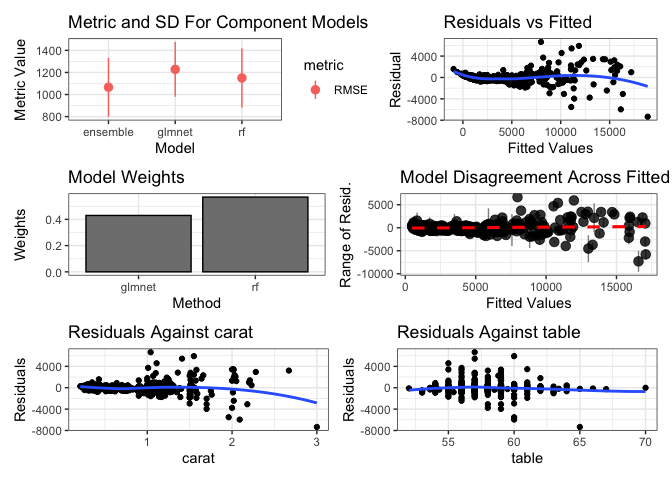
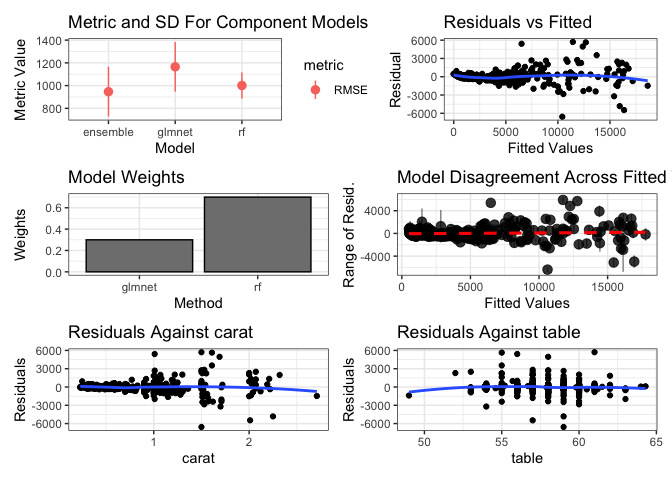
readme check

diff --git a/README.md b/README.md
@@ -51,21 +51,21 @@ print(greedy_stack)
 #> 
 #> No pre-processing
 #> Resampling: Cross-Validated (5 fold) 
-#> Summary of sample sizes: 400, 400, 400, 400, 400 
+#> Summary of sample sizes: 400, 400, 400, 401, 399 
 #> Resampling results:
 #> 
 #>   RMSE      Rsquared   MAE     
-#>   1065.887  0.9284382  592.5321
+#>   946.5929  0.9468516  506.8786
 #> 
 #> Tuning parameter 'max_iter' was held constant at a value of 100
 #> 
 #> Final model:
 #> Greedy MSE
-#> RMSE:  1076.431 
+#> RMSE:  963.298 
 #> Weights:
 #>        [,1]
-#> rf     0.57
-#> glmnet 0.43
+#> rf      0.7
+#> glmnet  0.3
 ggplot2::autoplot(greedy_stack, training_data = dat, xvars = c("carat", "table"))
 ```
 
@@ -84,11 +84,11 @@ print(rf_stack)
 #> 
 #> No pre-processing
 #> Resampling: Cross-Validated (5 fold) 
-#> Summary of sample sizes: 400, 400, 400, 400, 400 
+#> Summary of sample sizes: 400, 401, 400, 400, 399 
 #> Resampling results:
 #> 
 #>   RMSE      Rsquared   MAE     
-#>   1043.646  0.9306849  507.4756
+#>   968.4043  0.9467661  499.4089
 #> 
 #> Tuning parameter 'mtry' was held constant at a value of 2
 #> 
@@ -100,8 +100,8 @@ print(rf_stack)
 #>                      Number of trees: 500
 #> No. of variables tried at each split: 2
 #> 
-#>           Mean of squared residuals: 1130686
-#>                     % Var explained: 92.85
+#>           Mean of squared residuals: 881047.1
+#>                     % Var explained: 94.87
 ggplot2::autoplot(rf_stack, training_data = dat, xvars = c("carat", "table"))
 ```
 
